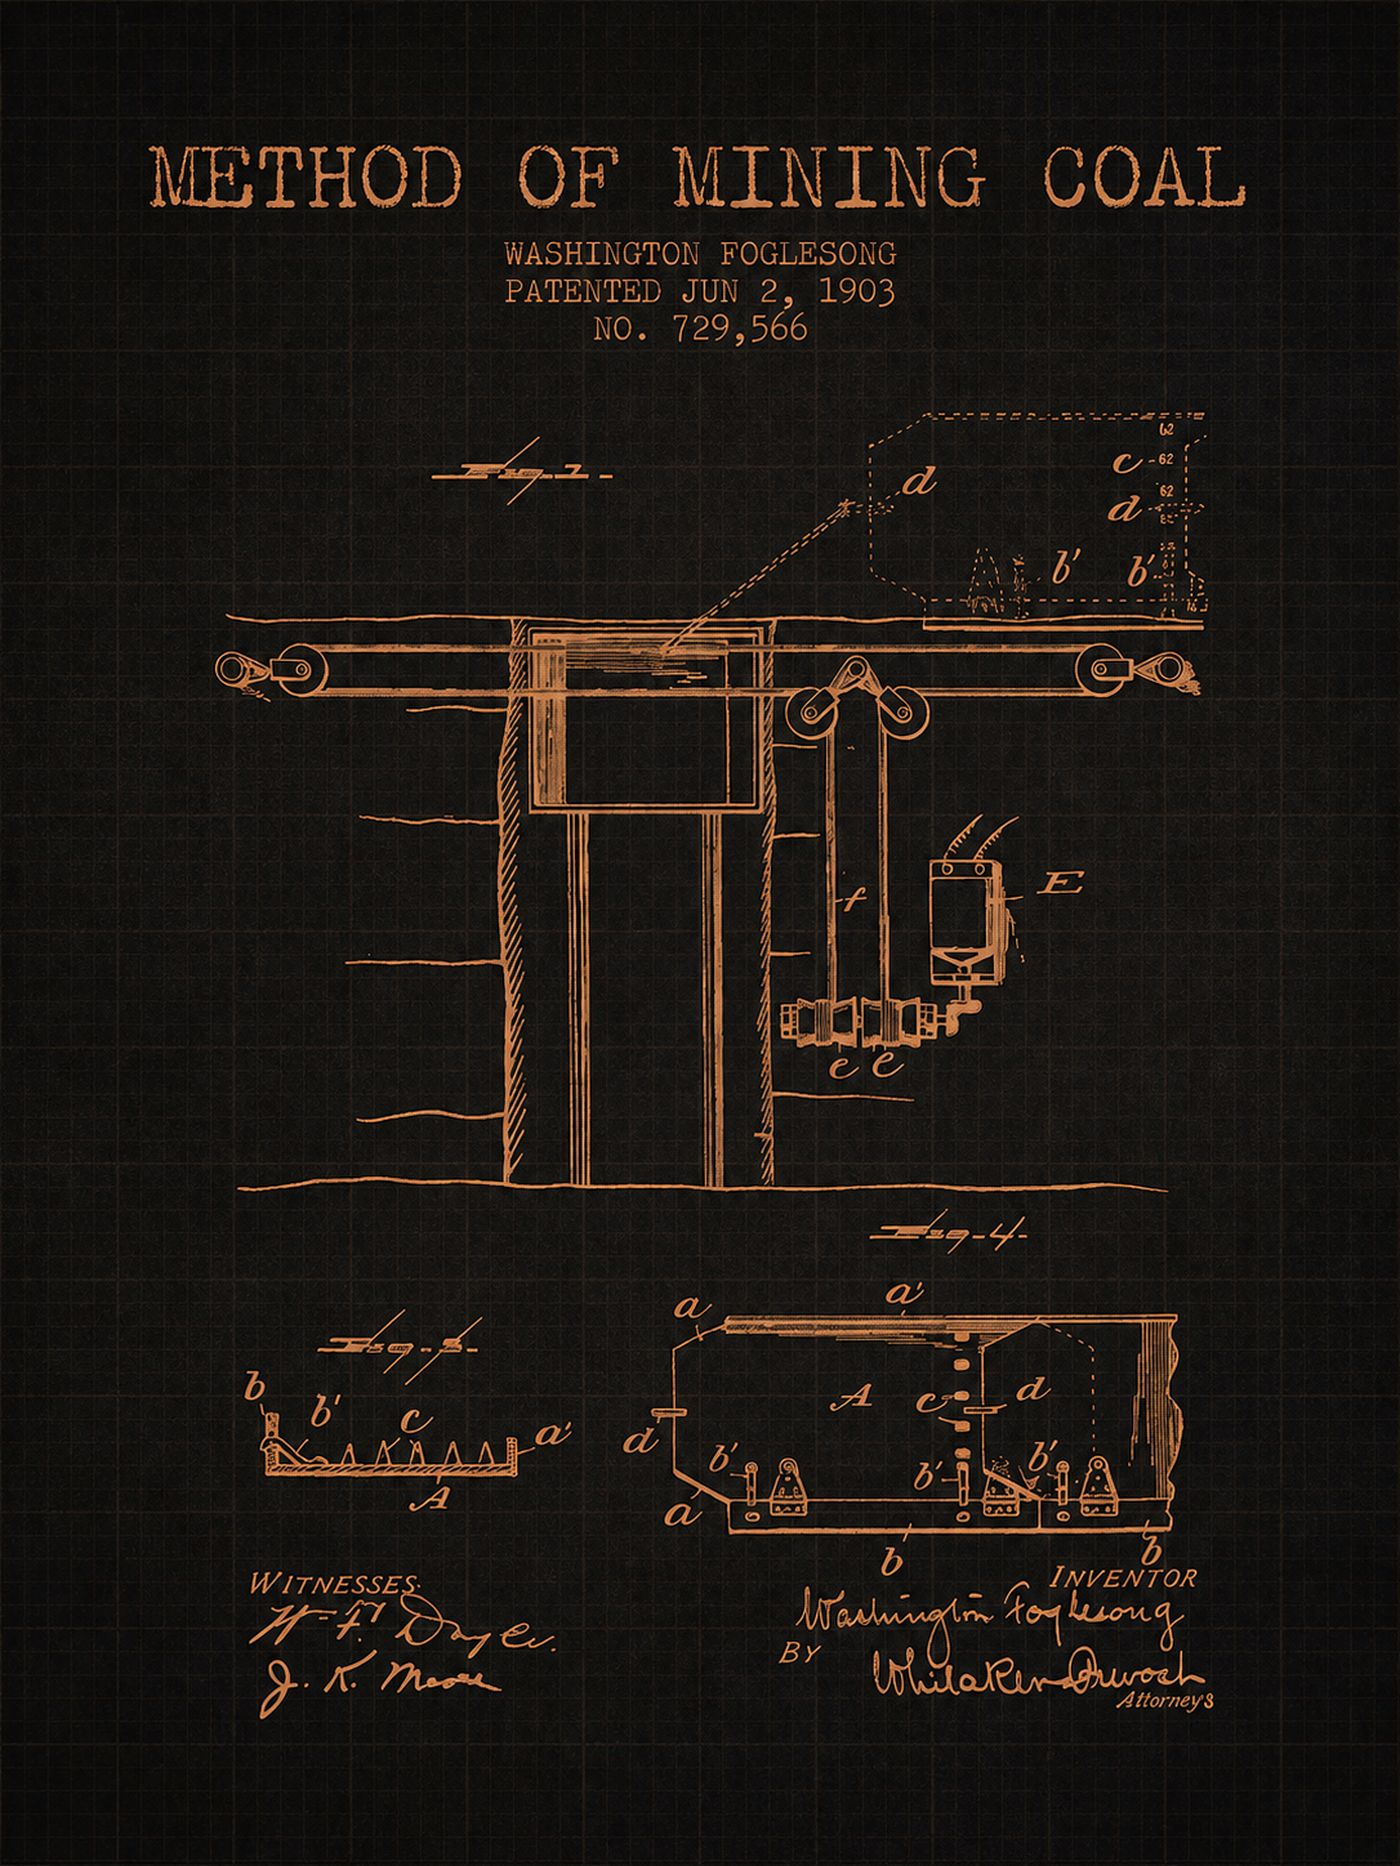
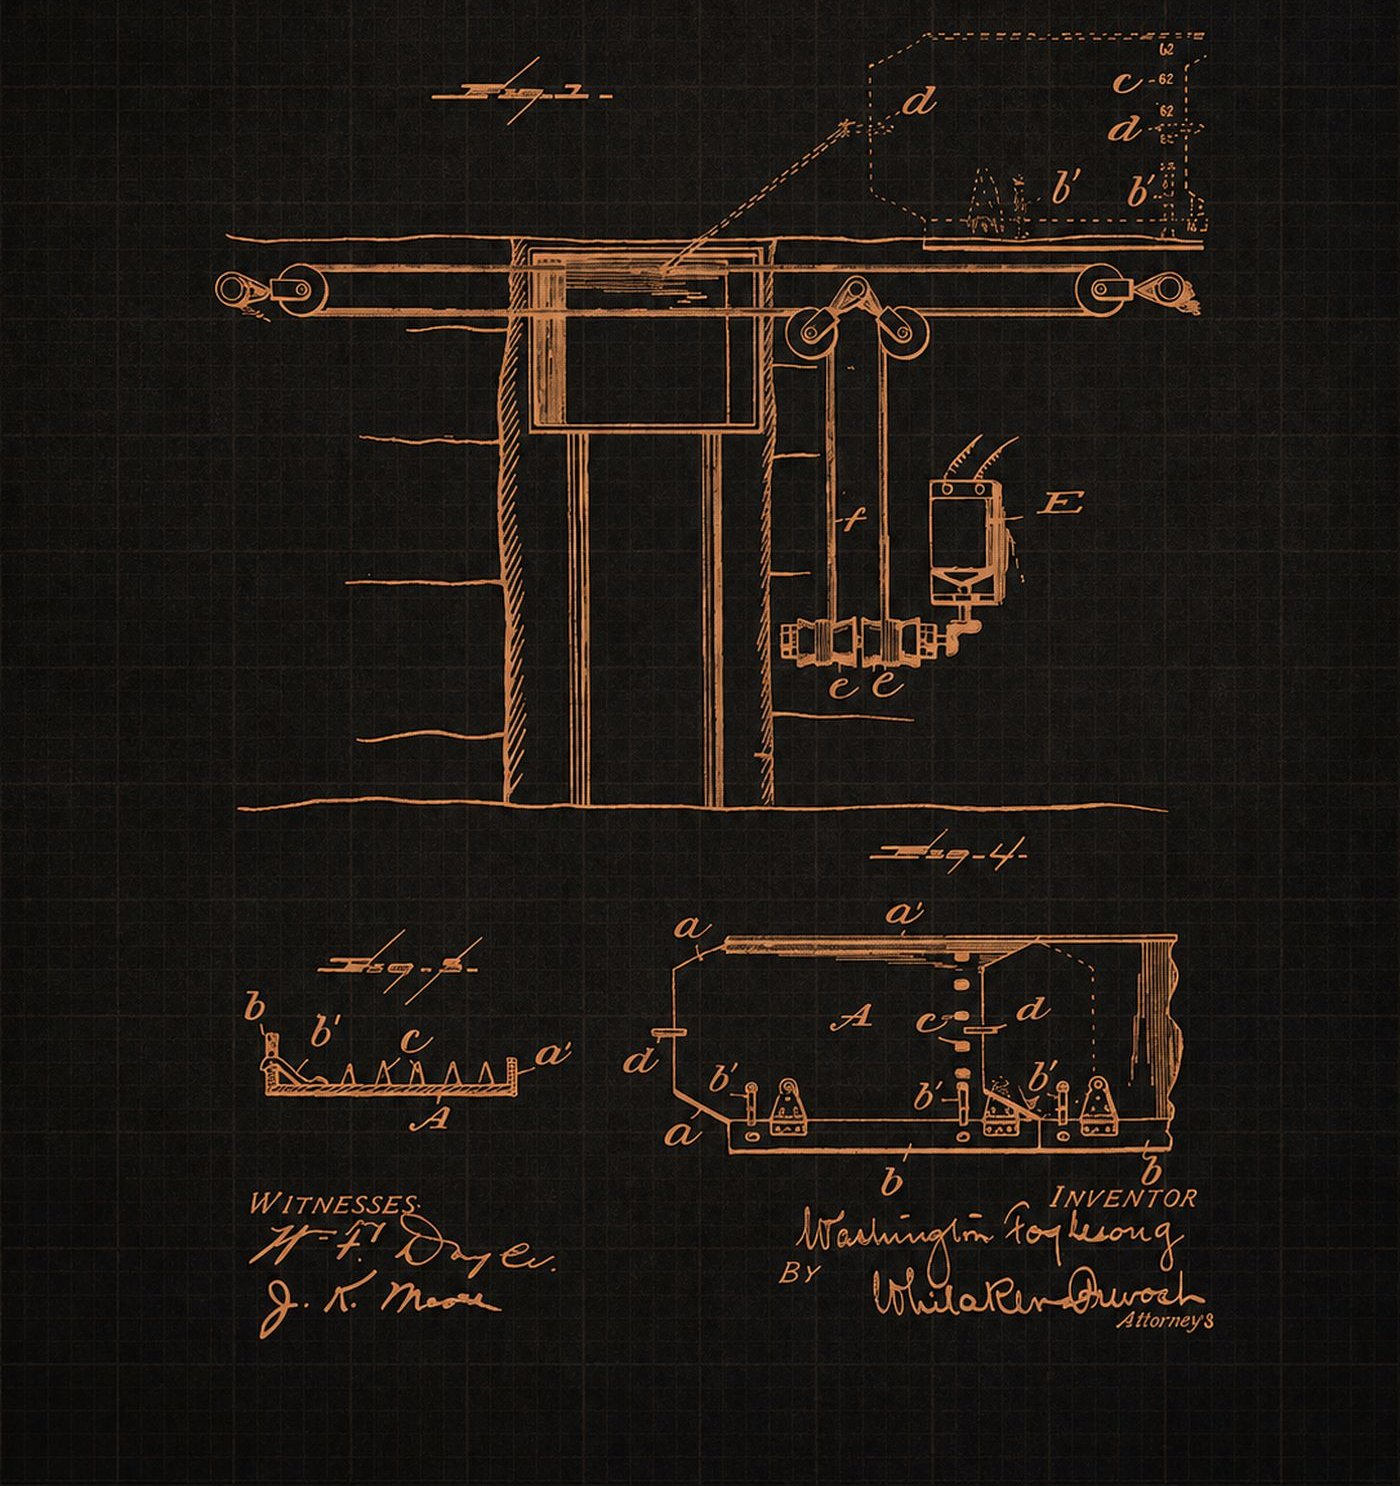
Fix watermark ghosting and side-tab card borders
- Crop the top text block ("METHOD OF MINING COAL" title/patent info)
  out of the blueprint watermark image so it no longer ghosts through
  as legible text at the top of pages that use it.
- Replace the thick copper left-border ("side-tab") treatment on
  .formula (bi-methodology.html) and .block (index/insurance-mine/
  insurance-machinery/insurance-transit) with the site's hairline
  border + 2px copper top accent, matching the pattern already used
  elsewhere (e.g. #lead-form, dropdown menu), and bump their radius
  to the documented 4px card scale.

Left the Google Sheets integration untouched per instruction.

Changed region(s): [[0.0921, 0.0, 0.8907, 0.9287]]

diff --git a/client/public/index.html b/client/public/index.html
@@ -122,7 +122,7 @@ nav{position:fixed;top:0;left:0;right:0;z-index:200;display:flex;justify-content
 
 /* generic content blocks used on facet pages */
 .blockgrid{display:grid;grid-template-columns:1fr 1fr;gap:20px;margin-top:40px}
-.block{background:var(--charcoal);border:1px solid var(--line);border-left:2px solid var(--copper);padding:26px 24px;border-radius:2px}
+.block{background:var(--charcoal);border:1px solid var(--line);border-top:2px solid var(--copper);padding:26px 24px;border-radius:4px}
 .block h3{font-size:17px;margin-bottom:10px}
 .block p{color:var(--platinum);font-size:14px;font-weight:300}
 @media(max-width:800px){.blockgrid{grid-template-columns:1fr}}

diff --git a/client/public/insurance-machinery.html b/client/public/insurance-machinery.html
@@ -101,7 +101,7 @@ nav{position:fixed;top:0;left:0;right:0;z-index:200;display:flex;justify-content
 
 /* generic content blocks used on facet pages */
 .blockgrid{display:grid;grid-template-columns:1fr 1fr;gap:20px;margin-top:40px}
-.block{background:var(--charcoal);border:1px solid var(--line);border-left:2px solid var(--copper);padding:26px 24px;border-radius:2px}
+.block{background:var(--charcoal);border:1px solid var(--line);border-top:2px solid var(--copper);padding:26px 24px;border-radius:4px}
 .block h3{font-size:17px;margin-bottom:10px}
 .block p{color:var(--platinum);font-size:14px;font-weight:300}
 @media(max-width:800px){.blockgrid{grid-template-columns:1fr}}

diff --git a/client/public/insurance-mine.html b/client/public/insurance-mine.html
@@ -101,7 +101,7 @@ nav{position:fixed;top:0;left:0;right:0;z-index:200;display:flex;justify-content
 
 /* generic content blocks used on facet pages */
 .blockgrid{display:grid;grid-template-columns:1fr 1fr;gap:20px;margin-top:40px}
-.block{background:var(--charcoal);border:1px solid var(--line);border-left:2px solid var(--copper);padding:26px 24px;border-radius:2px}
+.block{background:var(--charcoal);border:1px solid var(--line);border-top:2px solid var(--copper);padding:26px 24px;border-radius:4px}
 .block h3{font-size:17px;margin-bottom:10px}
 .block p{color:var(--platinum);font-size:14px;font-weight:300}
 @media(max-width:800px){.blockgrid{grid-template-columns:1fr}}

diff --git a/client/public/insurance-transit.html b/client/public/insurance-transit.html
@@ -101,7 +101,7 @@ nav{position:fixed;top:0;left:0;right:0;z-index:200;display:flex;justify-content
 
 /* generic content blocks used on facet pages */
 .blockgrid{display:grid;grid-template-columns:1fr 1fr;gap:20px;margin-top:40px}
-.block{background:var(--charcoal);border:1px solid var(--line);border-left:2px solid var(--copper);padding:26px 24px;border-radius:2px}
+.block{background:var(--charcoal);border:1px solid var(--line);border-top:2px solid var(--copper);padding:26px 24px;border-radius:4px}
 .block h3{font-size:17px;margin-bottom:10px}
 .block p{color:var(--platinum);font-size:14px;font-weight:300}
 @media(max-width:800px){.blockgrid{grid-template-columns:1fr}}

diff --git a/client/public/bi-methodology.html b/client/public/bi-methodology.html
@@ -140,8 +140,8 @@
 
   /* Formula callout */
   .formula{
-    background:var(--charcoal);border-left:4px solid var(--copper);
-    padding:18px 24px;margin:20px 0;
+    background:var(--charcoal);border:1px solid var(--rule);border-top:2px solid var(--copper);
+    padding:18px 24px;margin:20px 0;border-radius:4px;
     font-family:'Jost',sans-serif;font-weight:600;font-size:1.08rem;color:var(--bone);
     letter-spacing:.01em;
   }
